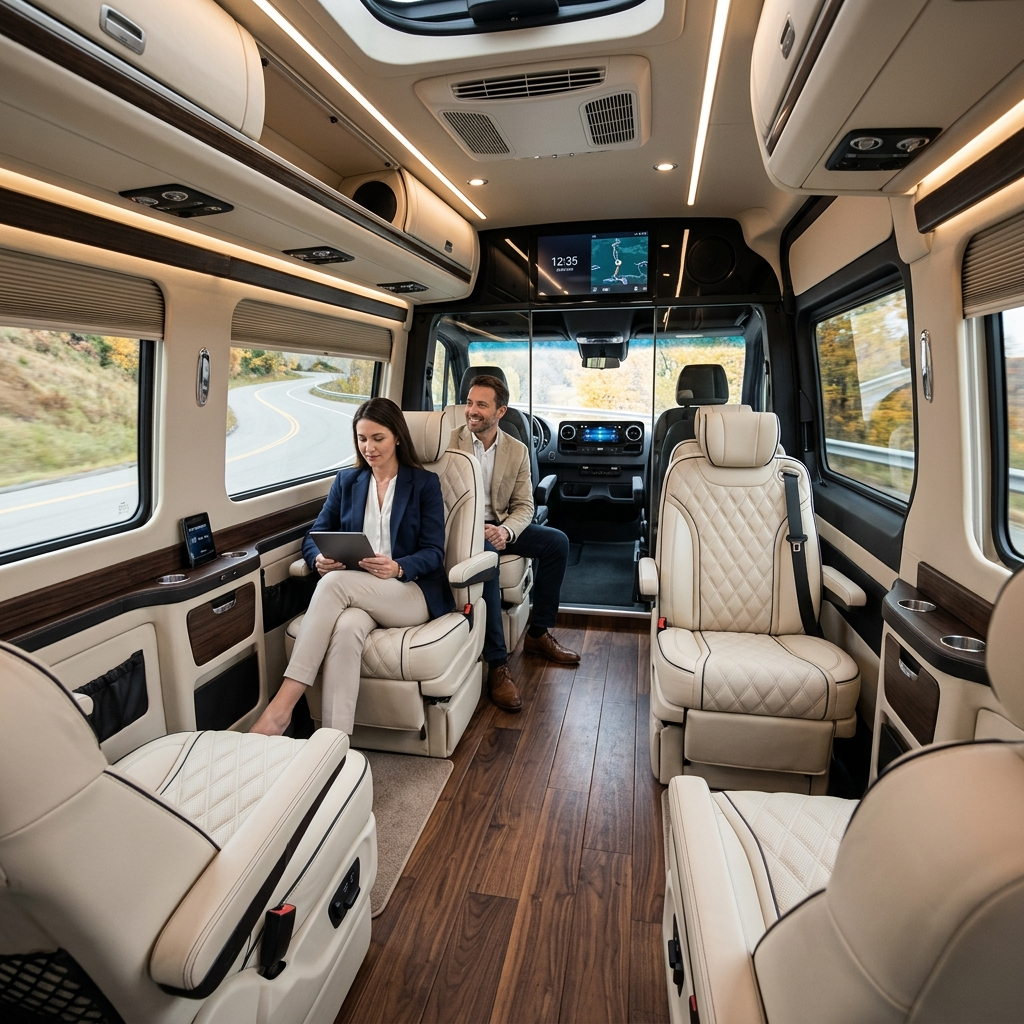
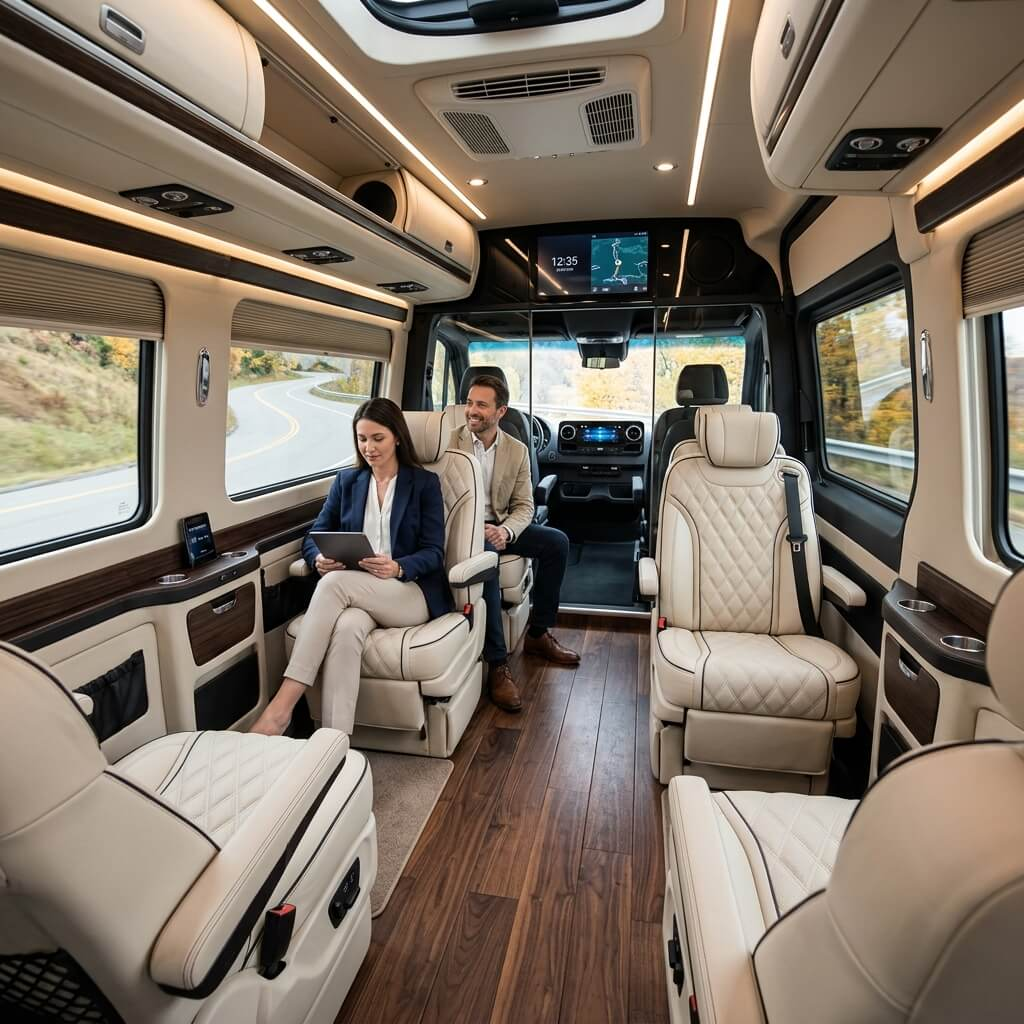
Add files via upload

diff --git a/el/index.html b/el/index.html
@@ -163,7 +163,7 @@
             <div class="service-card reveal-left">
                 <div class="card-icon"><i class="fas fa-taxi"></i></div>
                 <div style="display: flex; justify-content: space-between; align-items: center; margin-bottom: 10px;">
-                    <h3 style="margin: 0;">Executive Ταξί</h3>
+                    <h3 style="margin: 0;">Πολυτελές Ταξί</h3>
                     <button class="btn-gallery" onclick="openVehicleGallery('taxi')"><i class="fas fa-images"></i> Gallery</button>
                 </div>
                 <p>Ιδανικό για μεμονωμένους ταξιδιώτες ή ζευγάρια. Γρήγορες, αποτελεσματικές και άνετες μεταφορές στην πόλη ή στο αεροδρόμιο.</p>
@@ -198,7 +198,7 @@
             <div class="service-card reveal-right">
                 <div class="card-icon"><i class="fas fa-bus"></i></div>
                 <div style="display: flex; justify-content: space-between; align-items: center; margin-bottom: 10px;">
-                    <h3 style="margin: 0;">Λεωφορείο & Mini Bus</h3>
+                    <h3 style="margin: 0;">Λεωφορείο & Μικρό Λεωφορείο</h3>
                     <button class="btn-gallery" onclick="openVehicleGallery('bus')"><i class="fas fa-images"></i> Gallery</button>
                 </div>
                 <p>Ιδανικό για μεγάλα γκρουπ και εταιρικές εκδηλώσεις.</p>

diff --git a/css/styles.css b/css/styles.css
@@ -82,7 +82,7 @@ h2 {
 .gr-widget-link {
     display: flex;
     align-items: center;
-    background-color: rgba(255, 255, 255, 0.98);
+    background-color: #ffffff !important;
     padding: 12px 20px;
     border-radius: 50px;
     text-decoration: none;
@@ -91,6 +91,9 @@ h2 {
     border: 1px solid rgba(255, 255, 255, 0.5);
     backdrop-filter: blur(10px);
     animation: grGlowBob 3s ease-in-out infinite;
+    /* Prevent forced dark mode inversion */
+    forced-color-adjust: none;
+    color-scheme: light;
 }
 
 @keyframes grGlowBob {
@@ -113,7 +116,7 @@ h2 {
 
 /* Στυλ κλάσης: .gr-logo-container */
 .gr-logo-container {
-    background: #fff;
+    background: #ffffff !important;
     width: 38px;
     height: 38px;
     border-radius: 50%;
@@ -122,12 +125,17 @@ h2 {
     justify-content: center;
     margin-right: 15px;
     box-shadow: 0 2px 5px rgba(0, 0, 0, 0.1);
+    /* Prevent forced dark mode inversion */
+    forced-color-adjust: none;
+    color-scheme: light;
 }
 
 /* Στυλ κλάσης: .gr-google-g */
 .gr-google-g {
     width: 20px;
     height: 20px;
+    /* Prevent forced dark mode inversion */
+    forced-color-adjust: none;
 }
 
 /* Στυλ κλάσης: .gr-content */
@@ -388,6 +396,7 @@ h2 {
     object-fit: contain;
     border-radius: 8px;
     /* Slight rounding for a nicer look if desired */
+    forced-color-adjust: none;
 }
 
 /* Στυλ κλάσης: .nav-links */

diff --git a/he/index.html b/he/index.html
@@ -174,7 +174,7 @@
             <div class="service-card reveal-left">
                 <div class="card-icon"><i class="fas fa-taxi"></i></div>
                 <div style="display: flex; justify-content: space-between; align-items: center; margin-bottom: 10px;">
-                    <h3 style="margin: 0;">מונית אקזקיוטיב</h3>
+                    <h3 style="margin: 0;">מונית אקזקיוטיβ</h3>
                     <button class="btn-gallery" onclick="openVehicleGallery('taxi')"><i class="fas fa-images"></i> גלריה</button>
                 </div>
                 <p>מושלם לנוסעים בודדים או זוגות. הסעות מהירות, יעילות ונוחות ברחבי העיר או לשדה התעופה.</p>
